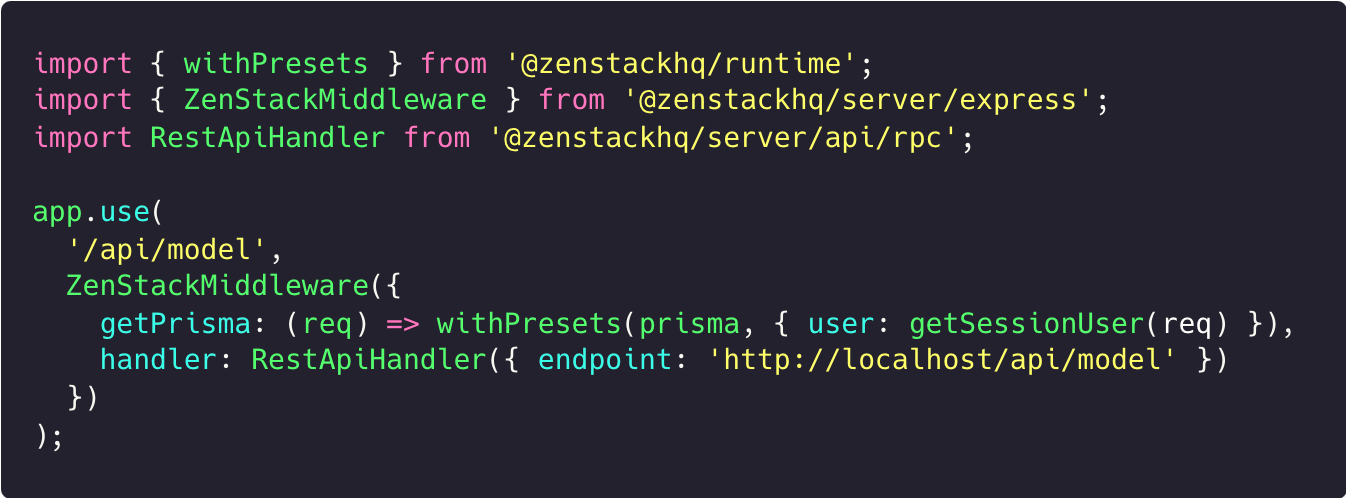
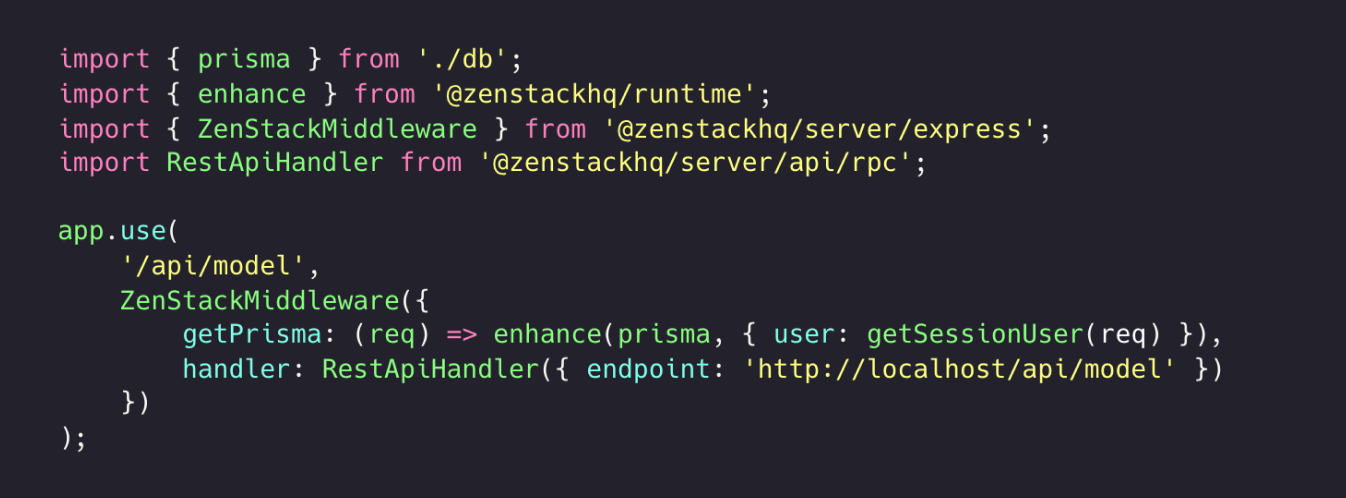
update homepage code images

diff --git a/src/components/ZenStackInStack.tsx b/src/components/ZenStackInStack.tsx
@@ -66,68 +66,108 @@ export default function ZenStackInStack(): JSX.Element {
                         </Content>
                         <div className="xl:max-w-3/4">
                             <Tabs>
-                                <TabItem value="Express" label="Express">
-                                    <img src="/img/home/server-adapter-express.png" alt="express.js server adapter" />
+                                <TabItem value="Next.js" label="Next.js">
+                                    <img
+                                        src="/img/home/server-adapter-nextjs.png"
+                                        alt="next.js server adapter"
+                                        className="rounded-lg"
+                                    />
                                     {/* <CodeBlock language="ts">
                                             {`
-                                import { enhance } from '@zenstackhq/runtime';
-                                import { ZenStackMiddleware } from '@zenstackhq/server/express';
-                                import RestApiHandler from '@zenstackhq/server/api/rpc';
-                
-                                app.use(
-                                  '/api/model',
-                                  ZenStackMiddleware({
-                                    getPrisma: (req) => enhance(prisma, { user: getSessionUser(req) }),
-                                    handler: RestApiHandler({ endpoint: 'http://localhost/api/model' })
-                                  })
-                                );
-                                `}
-                                        </CodeBlock> */}
-                                </TabItem>
-                                <TabItem value="Fastify" label="Fastify">
-                                    <img src="/img/home/server-adapter-fastify.png" alt="fastify server adapter" />
-                                    {/* <CodeBlock language="ts">
-                                            {`
-                                import { enhance } from '@zenstackhq/runtime';
-                                import { ZenStackFastifyPlugin } from '@zenstackhq/server/fastify';
-                                import RestApiHandler from '@zenstackhq/server/api/rpc';
-                
-                                server.register(ZenStackFastifyPlugin, {
-                                  prefix: '/api/model',
-                                  getPrisma: (req) => enhance(prisma, { user: getSessionUser(req) }),
-                                  handler: RestApiHandler({ endpoint: 'http://localhost/api/model' })
-                                });
+import { prisma } from 'server/db';
+import { enhance } from '@zenstackhq/runtime';
+import { NextRequestHandler } from '@zenstackhq/server/next';
+import RestApiHandler from '@zenstackhq/server/api/rest';
+
+export default NextRequestHandler({
+    getPrisma: (req, res) => enhance(prisma, { user: getSessionUser(req, res) }),
+    handler: RestApiHandler({ endpoint: 'http://localhost/api/model' })
+});
                                     `}
                                         </CodeBlock> */}
                                 </TabItem>
-                                <TabItem value="Next.js" label="Next.js">
-                                    <img src="/img/home/server-adapter-nextjs.png" alt="next.js server adapter" />
+                                <TabItem value="Nuxt" label="Nuxt">
+                                    <img
+                                        src="/img/home/server-adapter-nuxt.png"
+                                        alt="nuxt server adapter"
+                                        className="rounded-lg"
+                                    />
                                     {/* <CodeBlock language="ts">
                                             {`
-                                import { enhance } from '@zenstackhq/runtime';
-                                import { NextRequestHandler } from '@zenstackhq/server/next';
-                                import RestApiHandler from '@zenstackhq/server/api/rest';
-                
-                                export default NextRequestHandler({
-                                  getPrisma: (req, res) => enhance({ user: getSessionUser(req, res) }),
-                                  handler: RestApiHandler({ endpoint: 'http://localhost/api/model' })
-                                });
+import { prisma } from '~/server/db';
+import { enhance } from '@zenstackhq/runtime';
+import { createEventHandler } from '@zenstackhq/server/nuxt';
+import RestApiHandler from '@zenstackhq/server/api/rest';
+
+export default createEventHandler({
+    getPrisma: (event) => enhance(prisma, { user: getSessionUser(event) }),
+    handler: RestApiHandler({ endpoint: 'http://localhost/api/model' })
+});
                                     `}
                                         </CodeBlock> */}
                                 </TabItem>
                                 <TabItem value="SvelteKit" label="SvelteKit">
-                                    <img src="/img/home/server-adapter-sveltekit.png" alt="svelte kit server adapter" />
+                                    <img
+                                        src="/img/home/server-adapter-sveltekit.png"
+                                        alt="svelte kit server adapter"
+                                        className="rounded-lg"
+                                    />
                                     {/* <CodeBlock language="ts">
                                             {`
-                                import { enhance } from '@zenstackhq/runtime';
-                                import { SvelteKitHandler } from '@zenstackhq/server/sveltekit';
-                                import RestApiHandler from '@zenstackhq/server/api/rpc';
-                
-                                export const handle = SvelteKitHandler({
-                                  prefix: '/api/model',
-                                  getPrisma: (event) => enhance({ user: getSessionUser(event) }),
-                                  handler: RestApiHandler({ endpoint: 'http://localhost/api/model' })
-                                });
+import { prisma } from '$/lib/db';
+import { enhance } from '@zenstackhq/runtime';
+import { SvelteKitHandler } from '@zenstackhq/server/sveltekit';
+import RestApiHandler from '@zenstackhq/server/api/rpc';
+
+export const handle = SvelteKitHandler({
+    prefix: '/api/model',
+    getPrisma: (event) => enhance(prisma, { user: getSessionUser(event) }),
+    handler: RestApiHandler({ endpoint: 'http://localhost/api/model' })
+});
+                                    `}
+                                        </CodeBlock> */}
+                                </TabItem>
+                                <TabItem value="Express" label="Express">
+                                    <img
+                                        src="/img/home/server-adapter-express.png"
+                                        alt="express.js server adapter"
+                                        className="rounded-lg"
+                                    />
+                                    {/* <CodeBlock language="ts">
+                                            {`
+import { prisma } from './db';
+import { enhance } from '@zenstackhq/runtime';
+import { ZenStackMiddleware } from '@zenstackhq/server/express';
+import RestApiHandler from '@zenstackhq/server/api/rpc';
+
+app.use(
+    '/api/model',
+    ZenStackMiddleware({
+        getPrisma: (req) => enhance(prisma, { user: getSessionUser(req) }),
+        handler: RestApiHandler({ endpoint: 'http://localhost/api/model' })
+    })
+);
+                                `}
+                                        </CodeBlock> */}
+                                </TabItem>
+                                <TabItem value="Fastify" label="Fastify">
+                                    <img
+                                        src="/img/home/server-adapter-fastify.png"
+                                        alt="fastify server adapter"
+                                        className="rounded-lg"
+                                    />
+                                    {/* <CodeBlock language="ts">
+                                            {`
+import { prisma } from './db';
+import { enhance } from '@zenstackhq/runtime';
+import { ZenStackFastifyPlugin } from '@zenstackhq/server/fastify';
+import RestApiHandler from '@zenstackhq/server/api/rpc';
+
+server.register(ZenStackFastifyPlugin, {
+    prefix: '/api/model',
+    getPrisma: (req) => enhance(prisma, { user: getSessionUser(req) }),
+    handler: RestApiHandler({ endpoint: 'http://localhost/api/model' })
+});
                                     `}
                                         </CodeBlock> */}
                                 </TabItem>

diff --git a/docs/quick-start/full-todo-app.md b/docs/quick-start/full-todo-app.md
@@ -22,6 +22,10 @@ This is a more com comprehensive SaaS project with team space and the correspond
 
     [https://github.com/zenstackhq/sample-todo-trpc](https://github.com/zenstackhq/sample-todo-trpc)
 
+- Nuxt + TanStack Query
+
+    [https://github.com/zenstackhq/sample-todo-nuxt](https://github.com/zenstackhq/sample-todo-nuxt)
+
 - SvelteKit + TanStack Query
 
     [https://github.com/zenstackhq/sample-todo-sveltekit](https://github.com/zenstackhq/sample-todo-sveltekit)
